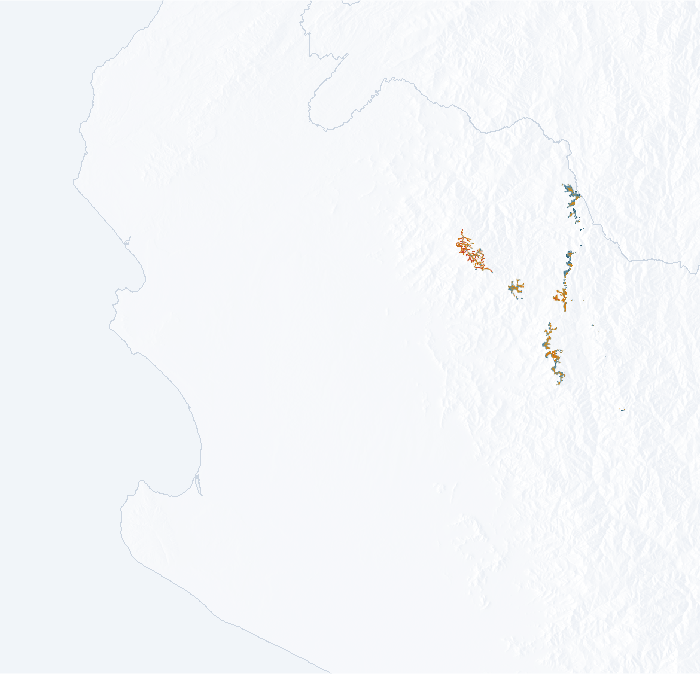
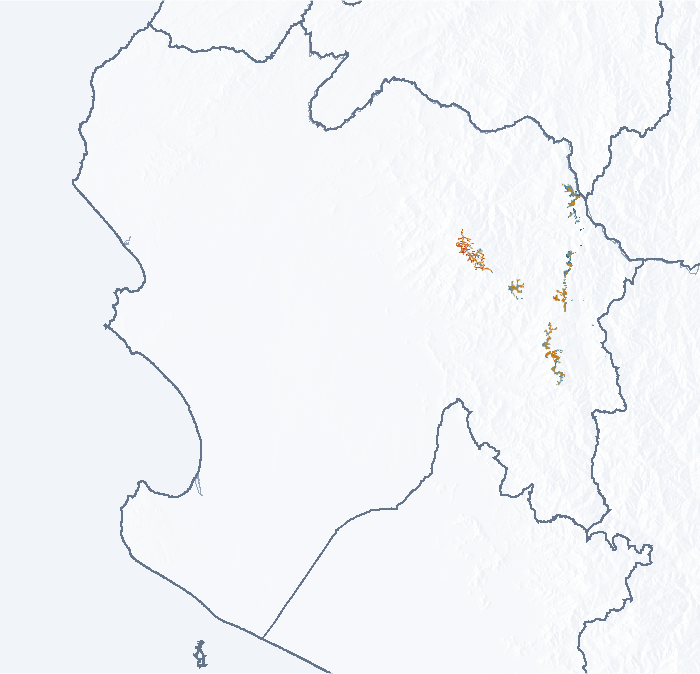
fix(ui): remove extra closing div in backtest page causing build failure

diff --git a/frontend/src/routes/monitoreo/+page.svelte b/frontend/src/routes/monitoreo/+page.svelte
@@ -48,6 +48,25 @@
     nino_2015_16: "El Niño 2015-16",
   };
 
+  // Coordenadas y límites para sobreponer ciudades
+  const BBOX = { lon_min: -81.6, lat_min: -6.5, lon_max: -79.0, lat_max: -4.0 };
+  const CIUDADES = [
+    { nombre: "Piura", lon: -80.632, lat: -5.194 },
+    { nombre: "Sullana", lon: -80.685, lat: -4.903 },
+    { nombre: "Talara", lon: -81.271, lat: -4.577 },
+    { nombre: "Paita", lon: -81.107, lat: -5.078 },
+    { nombre: "Chulucanas", lon: -80.162, lat: -5.093 },
+    { nombre: "Sechura", lon: -80.822, lat: -5.556 },
+    { nombre: "Ayabaca", lon: -79.714, lat: -4.639 },
+    { nombre: "Huancabamba", lon: -79.450, lat: -5.239 }
+  ];
+
+  function getPointStyle(lon: number, lat: number) {
+    const x = ((lon - BBOX.lon_min) / (BBOX.lon_max - BBOX.lon_min)) * 100;
+    const y = ((BBOX.lat_max - lat) / (BBOX.lat_max - BBOX.lat_min)) * 100;
+    return `left: ${x}%; top: ${y}%;`;
+  }
+
   const leyendas: Record<
     string,
     { min: string; max: string; gradiente: string }
@@ -218,16 +237,29 @@
 
             <div class="flex flex-col gap-4">
               <div
-                class="bg-white border border-slate-200/80 rounded-2xl overflow-hidden shadow-sm h-[400px] sm:h-[550px] md:h-[750px] lg:h-[850px] flex flex-col"
+                class="bg-white border border-slate-200/80 rounded-2xl overflow-hidden shadow-sm w-full aspect-[26/25] relative"
               >
                 <img
                   src={urlMapa}
                   alt="Mapa de {etiquetas[tabActiva]
                     .titulo} en Piura, periodo {PERIODOS[periodoActivo] ??
                     periodoActivo}"
-                  class="w-full h-full object-contain bg-slate-50"
+                  class="absolute inset-0 w-full h-full object-fill bg-slate-50"
                   loading="lazy"
                 />
+
+                <!-- City Overlays -->
+                {#each CIUDADES as ciudad}
+                  <div
+                    class="absolute flex flex-col items-center justify-center -translate-x-1/2 -translate-y-1/2 pointer-events-none"
+                    style={getPointStyle(ciudad.lon, ciudad.lat)}
+                  >
+                    <div class="w-1.5 h-1.5 rounded-full bg-slate-800 shadow-[0_0_0_2px_rgba(255,255,255,0.9)]"></div>
+                    <span class="mt-1 text-[10px] font-bold text-slate-700 bg-white/90 backdrop-blur-sm px-1.5 py-0.5 rounded-md shadow-sm border border-white/50">
+                      {ciudad.nombre}
+                    </span>
+                  </div>
+                {/each}
               </div>
 
               <!-- Dynamic Legend -->

diff --git a/frontend/src/routes/backtest/+page.svelte b/frontend/src/routes/backtest/+page.svelte
@@ -184,7 +184,6 @@
             un evento no anticipado que no aparece contabilizado como tal.
           </p>
         </div>
-      </div>
     </DashboardContainer>
   </div>
 </div>

diff --git a/backend/scripts/construir_mapas.py b/backend/scripts/construir_mapas.py
@@ -222,12 +222,18 @@ def aplicar_fondo(img_vis):
     tierra_mask = ee.Image.constant(0).paint(land, 1)
     tierra = hillshade.updateMask(tierra_mask).clip(region_piura)
 
-    # Fronteras / costa
+    # Fronteras internacionales y costa
     costa_mask = ee.Image.constant(0).paint(land, 1, 1)
-    costa = (ee.Image.constant(0).visualize(palette=['#cbd5e1'])
+    costa = (ee.Image.constant(0).visualize(palette=['#94a3b8'])
              .updateMask(costa_mask.eq(1)).clip(region_piura))
 
-    fondo = agua.blend(tierra).blend(costa)
+    # Fronteras departamentales (Level 1)
+    departamentos = ee.FeatureCollection("FAO/GAUL/2015/level1")
+    dept_mask = ee.Image.constant(0).paint(departamentos, 1, 2)
+    dept_bordes = (ee.Image.constant(0).visualize(palette=['#64748b'])
+                   .updateMask(dept_mask.eq(1)).clip(region_piura))
+
+    fondo = agua.blend(tierra).blend(costa).blend(dept_bordes)
 
     # mosaic() en lugar de blend() porque blend hereda el footprint de la
     # imagen superpuesta (img_vis), lo que recorta el mapa y hace perder
